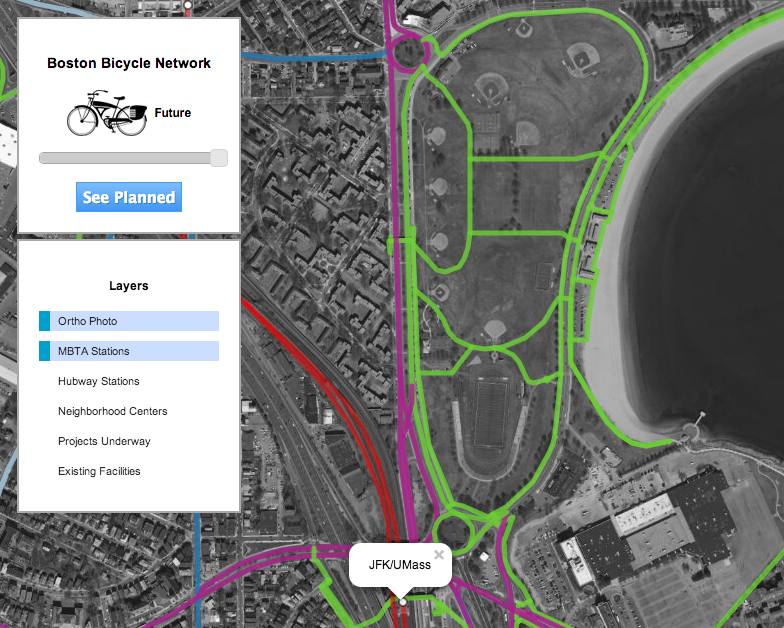
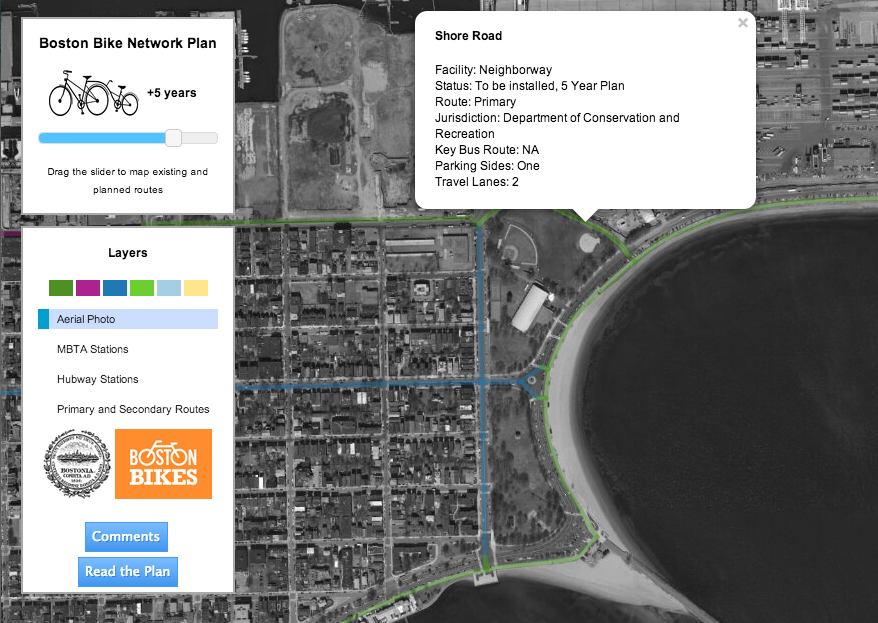
add / update readme screenshots

diff --git a/static/bike-map.js b/static/bike-map.js
@@ -7,6 +7,7 @@ if(typeof console == "undefined" || typeof console.log == "undefined"){
 var map = L.map('map', {
   center: [ 42.32, -71.107292 ],
   zoom: 12,
+  minZoom: 10,
   maxZoom: 17,
   zoomControl: false
 });

diff --git a/README.md b/README.md
@@ -2,20 +2,31 @@
 
 ## Overview
 
-Visualize several map layers related to the city's bicycle plan
+Visualize several map layers related to the city's bicycle network
 
-Displays past, present, and future bike network
+Displays past, present, 5 year plan, and 30 year plan
 
 ## Screenshots
 
-<img src="https://raw.github.com/mapmeld/bike-plan/gh-pages/screenshot.png"/>
+<img src="https://raw.github.com/cityofboston/bike-plan/gh-pages/screenshot.png"/>
 
-<img src="https://raw.github.com/mapmeld/bike-plan/gh-pages/screenshot2.png"/>
+<img src="https://raw.github.com/cityofboston/bike-plan/gh-pages/screenshot2.png"/>
+
+<img src="https://raw.github.com/cityofboston/bike-plan/gh-pages/screenshot3.png"/>
+
+## JS and CSS tweaks
+
+Aerial Photo map is converted to grayscale using CSS (plus an SVG filter on WebKit-based browsers)
+
+jQuery slider is hard-coded to make the +5 and +30 year steps longer than other steps on the timeline
+
+jQuery slider and tooltip have modified background, font size, and border
 
 ## Technologies Used
 
 * <a href="http://leafletjs.com">Leaflet.js</a>
 * <a href="http://esri.github.io/esri-leaflet/">Esri-Leaflet Plugin</a>
 * <a href="http://jquery.com">jQuery</a> and <a href="http://jqueryui.com/">jQuery UI</a>
-* Creative Commons Icons from <a href="http://thenounproject.com/">The Noun Project</a>
+* Creative Commons and public domain icons from <a href="http://thenounproject.com/">The Noun Project</a>
+* ArcGIS Server
 * <a href="http://pages.github.com/">GitHub Pages</a>
